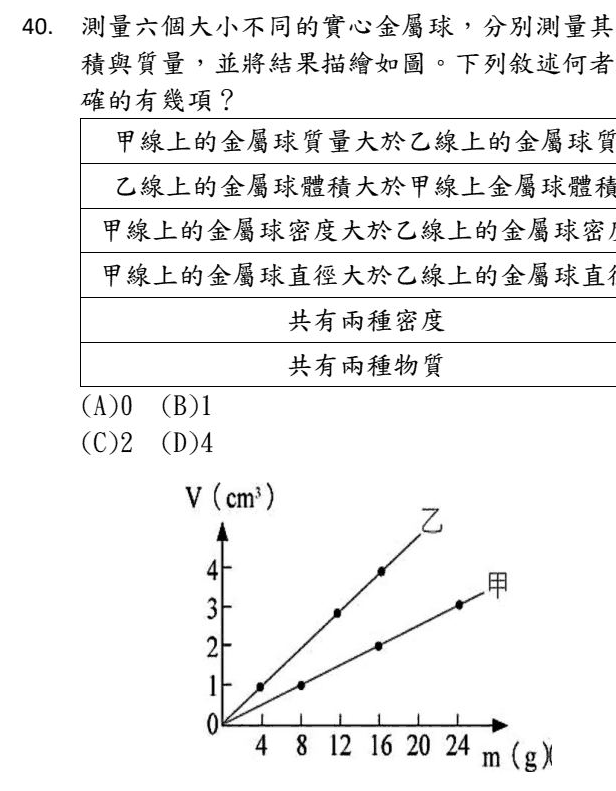
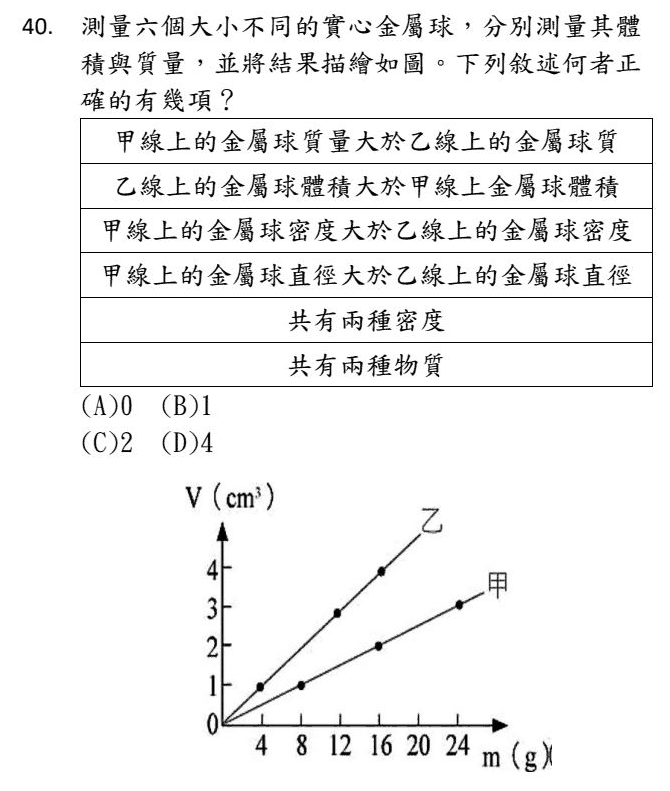
Fix truncated right edge on 114 midterm question 40 image

diff --git a/review-intro-ch1.html b/review-intro-ch1.html
@@ -196,7 +196,7 @@ footer{margin-top:30px;font-size:13px;color:var(--ink2);line-height:1.8}
 <div class="card"><div class="meta"><span class="tag no">112-29</span><span class="tag">112 學年度 第一次段考 · 第 29 題</span><span class="tag">官方答案卡</span></div><img class="qimg" style="--w:100.0%" alt="112 學年度 第 29 題" src="review/intro-ch1/112-29.png"><div class="ansrow" data-q="112-29" data-ans="C"><span class="lb">第 29 題</span><span class="opts"><button data-c="A">A</button><button data-c="B">B</button><button data-c="C">C</button><button data-c="D">D</button></span><span class="blank">答：（　　）</span><span class="verdict"></span></div><div class="sol" data-q="112-29" hidden><div class="key">答案：(C)</div><p>天平平衡 → 甲、乙<strong>質量相等</strong>。甲 20 mL、乙只有 10 mL → 乙的密度是甲的 2 倍。</p><p>M-V 圖上，<strong>線愈陡，密度愈大</strong> → 乙的線比較陡。</p><p>縱軸是「液體質量」，體積 0 時質量也是 0 → 線要<strong>通過原點</strong>。(A) 乙比較陡，但沒有通過原點，是錯的；答案是 (C)。</p></div></div>
 <div class="card"><div class="meta"><span class="tag no">112-30</span><span class="tag">112 學年度 第一次段考 · 第 30 題</span><span class="tag">官方答案卡</span></div><img class="qimg" style="--w:100.0%" alt="112 學年度 第 30 題" src="review/intro-ch1/112-30.png"><div class="ansrow" data-q="112-30" data-ans="A"><span class="lb">第 30 題</span><span class="opts"><button data-c="A">A</button><button data-c="B">B</button><button data-c="C">C</button><button data-c="D">D</button></span><span class="blank">答：（　　）</span><span class="verdict"></span></div><div class="sol" data-q="112-30" hidden><div class="key">答案：(A)</div><p>表中的質量是<strong>「量筒 ＋ 液體」</strong>，但圖畫的是「液體的質量」。</p><p>看變化量：體積每多 5 cm³，質量多 10 g → 液體密度 ＝ 10 ÷ 5 ＝ <strong>2 g/cm³</strong>。</p><p>圖中甲線：30 cm³ 對到 60 g，密度 ＝ 2 → <strong>甲</strong>。</p><p>（順便算出空量筒 ＝ 100 − 5×2 ＝ 90 g。）</p></div></div>
 <div class="card"><div class="meta"><span class="tag no">114-39</span><span class="tag">114 學年度 第一次段考 · 第 39 題</span><span class="tag self">自行解出（該卷無官方解答）</span></div><img class="qimg" style="--w:48.9%" alt="114 學年度 第 39 題" src="review/intro-ch1/114-39.png"><div class="ansrow" data-q="114-39" data-ans="D"><span class="lb">第 39 題</span><span class="opts"><button data-c="A">A</button><button data-c="B">B</button><button data-c="C">C</button><button data-c="D">D</button></span><span class="blank">答：（　　）</span><span class="verdict"></span></div><div class="sol" data-q="114-39" hidden><div class="key">答案：(D)</div><p>先看穿一件事：表上的質量是<strong>「量筒＋液體」</strong>，不是液體本身。</p><p>每多 10 cm³，質量多 12 g → 密度 1.2 ✓（A 對）<br>回推空量筒 ＝ 35 − 10×1.2 ＝ 23 g ✓（B 對）<br>119 ＝ 23 ＋ 1.2V → V ＝ 80 ✓（C 對）</p><p>(D) 錯在<em>它把量筒也算進縱軸了</em>。如果縱軸真的是「液體」的質量（已經扣掉量筒），那 0 體積就是 0 公克，直線<strong>一定通過原點</strong>。會不通過原點的，是「量筒＋液體」那一條。</p><div class="srcnote">※ 此卷無官方解答，答案為自行解出，請以老師講解為準。</div></div></div>
-<div class="card"><div class="meta"><span class="tag no">114-40</span><span class="tag">114 學年度 第一次段考 · 第 40 題</span><span class="tag self">自行解出（該卷無官方解答）</span></div><img class="qimg" style="--w:44.9%" alt="114 學年度 第 40 題" src="review/intro-ch1/114-40.png"><div class="ansrow" data-q="114-40" data-ans="C"><span class="lb">第 40 題</span><span class="opts"><button data-c="A">A</button><button data-c="B">B</button><button data-c="C">C</button><button data-c="D">D</button></span><span class="blank">答：（　　）</span><span class="verdict"></span></div><div class="sol" data-q="114-40" hidden><div class="key">答案：(C)</div><p>⚠ 先看軸：這張圖<strong>縱軸是 V、橫軸是 m</strong>，和平常相反！所以線愈陡，密度反而愈<em>小</em>。</p><p>甲：24 g ÷ 3 cm³ ＝ 密度 8；乙：16 g ÷ 4 cm³ ＝ 密度 4。</p><p>① ② ④：同一條線上的球有大有小，不能說「甲線上的球<em>一定</em>比乙重／比乙小／直徑比較大」→ 都錯。<br>③ 甲密度 8 ＞ 乙 4 ✓<br>⑤ 兩條直線 ＝ 兩種密度 ✓<br>⑥ 密度只是鑑別物質的<strong>參考</strong>，光靠密度不能百分之百確定是兩種物質 → 不採計。</p><p>正確的有 ③⑤，共 2 項。（選項只有 0／1／2／4，③⑤ 一定對、①②④ 一定錯，所以答案只能是 2。）</p><div class="srcnote">※ 此卷無官方解答，答案為自行解出，請以老師講解為準。</div></div></div>
+<div class="card"><div class="meta"><span class="tag no">114-40</span><span class="tag">114 學年度 第一次段考 · 第 40 題</span><span class="tag self">自行解出（該卷無官方解答）</span></div><img class="qimg" style="--w:48.9%" alt="114 學年度 第 40 題" src="review/intro-ch1/114-40.png"><div class="ansrow" data-q="114-40" data-ans="C"><span class="lb">第 40 題</span><span class="opts"><button data-c="A">A</button><button data-c="B">B</button><button data-c="C">C</button><button data-c="D">D</button></span><span class="blank">答：（　　）</span><span class="verdict"></span></div><div class="sol" data-q="114-40" hidden><div class="key">答案：(C)</div><p>⚠ 先看軸：這張圖<strong>縱軸是 V、橫軸是 m</strong>，和平常相反！所以線愈陡，密度反而愈<em>小</em>。</p><p>甲：24 g ÷ 3 cm³ ＝ 密度 8；乙：16 g ÷ 4 cm³ ＝ 密度 4。</p><p>① ② ④：同一條線上的球有大有小，不能說「甲線上的球<em>一定</em>比乙重／比乙小／直徑比較大」→ 都錯。<br>③ 甲密度 8 ＞ 乙 4 ✓<br>⑤ 兩條直線 ＝ 兩種密度 ✓<br>⑥ 密度只是鑑別物質的<strong>參考</strong>，光靠密度不能百分之百確定是兩種物質 → 不採計。</p><p>正確的有 ③⑤，共 2 項。（選項只有 0／1／2／4，③⑤ 一定對、①②④ 一定錯，所以答案只能是 2。）</p><div class="srcnote">※ 此卷無官方解答，答案為自行解出，請以老師講解為準。</div></div></div>
 <div class="card"><div class="meta"><span class="tag no">113-20</span><span class="tag">113 學年度 第一次段考 · 第 20 題</span><span class="tag">官方解答</span></div><img class="qimg" style="--w:100.0%" alt="113 學年度 第 20 題" src="review/intro-ch1/113-20.png"><div class="ansrow" data-q="113-20" data-ans="A"><span class="lb">第 20 題</span><span class="opts"><button data-c="A">A</button><button data-c="B">B</button><button data-c="C">C</button><button data-c="D">D</button></span><span class="blank">答：（　　）</span><span class="verdict"></span></div><div class="sol" data-q="113-20" hidden><div class="key">答案：(A)</div><p>每個點算一次「質量 ÷ 體積」，會發現它們分成幾群：</p><p>密度 <strong>6</strong>：(2, 12)、(4/3, 8)、(2/3, 4) → 3 個，密度最大（B 對）<br>密度 <strong>0.5</strong>：(4, 2)、(6, 3)、(8, 4)、(10, 5) → 4 個，比水小，會浮（C 對、D 對）<br>其餘 5 個密度都大於 1</p><p>會沉入水中的 ＝ 12 − 4 ＝ <strong>8 個</strong>，(A) 說 7 個 → 錯。</p><p class='mx-pt'>技巧：連原點畫直線，<strong>落在同一條直線上的點，密度相同</strong>。</p></div></div>
 <div class="card"><div class="meta"><span class="tag no">113-38</span><span class="tag">113 學年度 第一次段考 · 第 38 題</span><span class="tag">官方解答</span></div><img class="qimg" style="--w:100.0%" alt="113 學年度 第 38 題" src="review/intro-ch1/113-38.png"><div class="ansrow" data-q="113-38" data-ans="D"><span class="lb">第 38 題</span><span class="opts"><button data-c="A">A</button><button data-c="B">B</button><button data-c="C">C</button><button data-c="D">D</button></span><span class="blank">答：（　　）</span><span class="verdict"></span></div><div class="sol" data-q="113-38" hidden><div class="key">答案：(D)</div><p>1 公斤鐵和 1 公斤棉花，<strong>質量一樣</strong>（A 對），放上天平會平衡（C 對）。</p><p>鐵的密度大 → 同樣質量體積小（B 對）。棉花蓬蓬的一大團，密度<strong>比較小</strong> → (D) 錯。</p></div></div>
 <div class="card"><div class="meta"><span class="tag no">113-24</span><span class="tag">113 學年度 第一次段考 · 第 24 題</span><span class="tag">官方解答</span></div><img class="qimg" style="--w:100.0%" alt="113 學年度 第 24 題" src="review/intro-ch1/113-24.png"><div class="ansrow" data-q="113-24" data-ans="B"><span class="lb">第 24 題</span><span class="opts"><button data-c="A">A</button><button data-c="B">B</button><button data-c="C">C</button><button data-c="D">D</button></span><span class="blank">答：（　　）</span><span class="verdict"></span></div><div class="sol" data-q="113-24" hidden><div class="key">答案：(B)</div><p>同一塊合金分成兩塊，<strong>密度相同</strong>——先用正立方體把密度算出來。</p><p>正立方體：體積 10×10×10 ＝ 1000 cm³，質量 10 − 4 ＝ 6 kg ＝ 6000 g → 密度 ＝ <strong>6 g/cm³</strong>。</p><p>實心球：4 kg ＝ 4000 g，體積 ＝ 4000 ÷ 6 ≈ <strong>666 cm³</strong>。</p><p>注意 kg 要換成 g，不然單位對不起來。</p></div></div>
